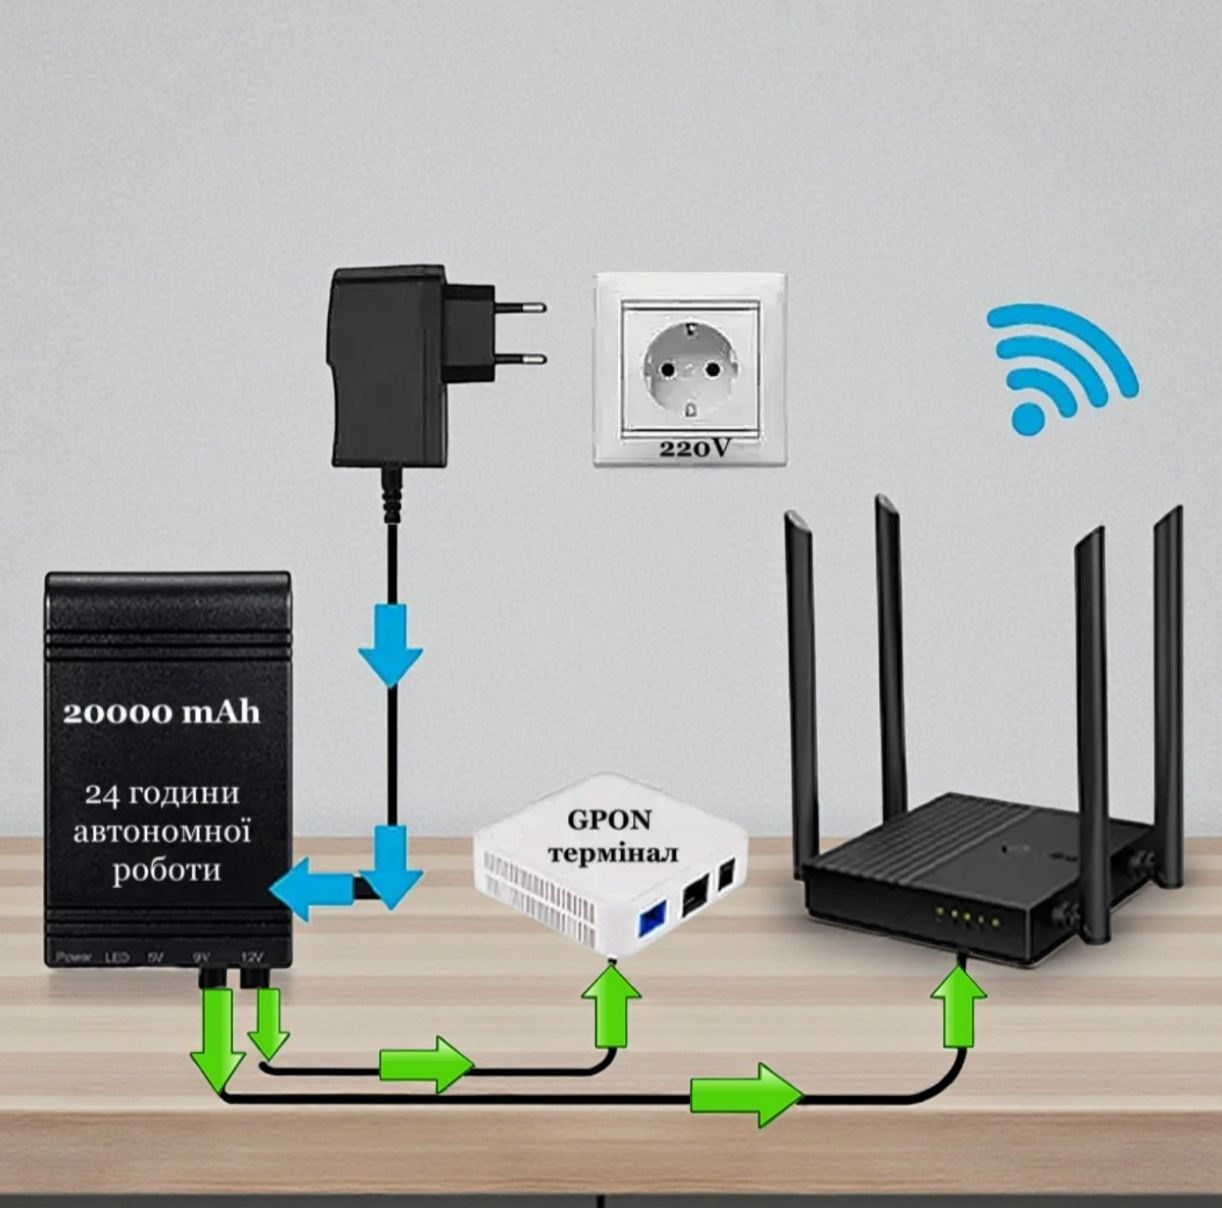
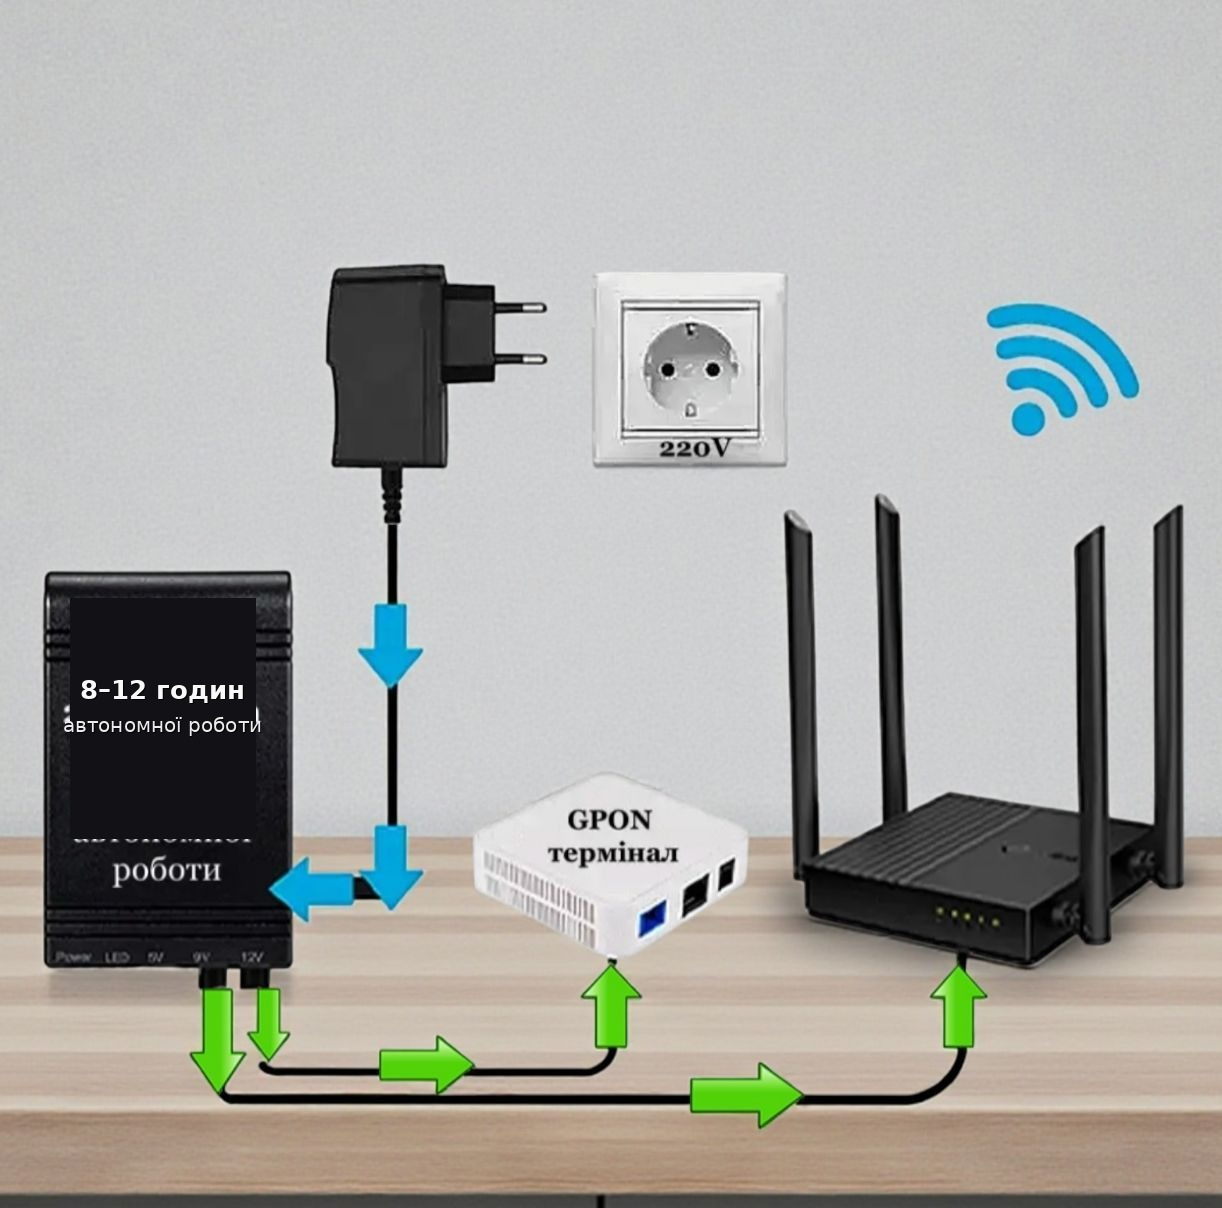
Fix landing: real kit hero, 8–12h scheme, quiz, Pages SEO
- Hero A uses kit-20k photo instead of the infographic
- Scheme text no longer claims 24 hours (8–12)
- Plug-vs-patch quiz above A/B comparison
- robots/sitemap point at GitHub Pages URL
- 404 returns to /powerbank/
- Favicon + Open Graph image

Changed region(s): [[0.0311, 0.4901, 0.2177, 0.6126], [0.0622, 0.6432, 0.2177, 0.7045]]

diff --git a/index.html b/index.html
@@ -3,16 +3,25 @@
 <head>
   <meta charset="UTF-8">
   <meta name="viewport" content="width=device-width, initial-scale=1.0">
-  <title>PowerRouter — збірний 20 000 і DC1018P</title>
+  <title>ІБП для роутера 20 000 mAh і DC1018P — інтернет без світла | PowerRouter</title>
+  <link rel="icon" type="image/svg+xml" href="favicon.svg">
+  <link rel="canonical" href="https://crewdocssolution.github.io/powerbank/">
+  <meta property="og:title" content="PowerRouter — інтернет без світла">
+  <meta property="og:description" content="Два комплекти ІБП для роутера і GPON за 1 690 ₴. 8–12 год або DC1018P з PoE.">
+  <meta property="og:image" content="https://crewdocssolution.github.io/powerbank/kit-20k.jpg">
+  <meta property="og:url" content="https://crewdocssolution.github.io/powerbank/">
+  <meta property="og:type" content="website">
+  <meta name="twitter:card" content="summary_large_image">
   <meta name="description" content="Два комплекти: 20 000 mAh і DC1018P 10 400 mAh з PoE. 1690 ₴.">
   <link href="https://fonts.googleapis.com/css2?family=Inter:wght@400;500;600;700;800&display=swap" rel="stylesheet">
-  <link rel="stylesheet" href="style.css?v=15">
+  <link rel="stylesheet" href="style.css?v=16">
 </head>
 <body class="kit20">
   <header>
     <div class="wrap nav">
       <a class="brand" href="#"><span class="brand-mark">⚡</span>PowerRouter</a>
       <nav class="nav-links">
+        <a href="#quiz"><span data-lang="uk" class="active">Підбір</span><span data-lang="ru">Подбор</span></a>
         <a href="#story"><span data-lang="uk" class="active">Як працює</span><span data-lang="ru">Как работает</span></a>
         <a href="#kits"><span data-lang="uk" class="active">Комплекти</span><span data-lang="ru">Комплекты</span></a>
         <a href="#faq">FAQ</a>
@@ -35,7 +44,7 @@
               <span class="badge badge-gold"><span data-lang="uk" class="active">Для роутера і GPON</span><span data-lang="ru">Для роутера и GPON</span></span>
               <span class="badge badge-red"><span data-lang="uk" class="active">Інтернет без світла</span><span data-lang="ru">Интернет без света</span></span>
             </div>
-            <img id="mainImg" src="scheme-20k.jpg" alt="Схема 20 000">
+            <img id="mainImg" src="kit-20k.jpg" alt="Реальний комплект 20 000 mAh">
           </div>
           <div class="thumbs" id="thumbs"></div>
         </div>
@@ -44,7 +53,7 @@
           <p class="lead"><span data-lang="uk" class="active">Два різні комплекти за 1 690 ₴. Є круглий штекер — підходять обидва. Живлення тільки патч-кордом — лише B.</span><span data-lang="ru">Два разных комплекта за 1 690 ₴. Есть круглый штекер — подходят оба. Питание только патч-кордом — только B.</span></p>
           <div class="switch">
             <button class="on" id="sw20" onclick="selectProduct('kit20')">
-              <img src="scheme-20k.jpg" alt="">
+              <img src="kit-20k.jpg" alt="">
               <div class="sw-txt">Варіант A · 20 000<small><span data-lang="uk" class="active">збірний, 8–12 год</span><span data-lang="ru">сборный, 8–12 ч</span></small></div>
             </button>
             <button id="swDc" onclick="selectProduct('dc')">
@@ -137,6 +146,28 @@
       </div>
     </section>
 
+
+    <section id="quiz">
+      <div class="kicker"><span data-lang="uk" class="active">30 секунд</span><span data-lang="ru">30 секунд</span></div>
+      <h2><span data-lang="uk" class="active">Круглий штекер чи тільки патч?</span><span data-lang="ru">Круглый штекер или только патч?</span></h2>
+      <p class="story-intro"><span data-lang="uk" class="active">Від цього залежить, який комплект брати. Не від ціни — вона одна.</span><span data-lang="ru">От этого зависит, какой комплект брать. Не от цены — она одна.</span></p>
+      <div class="quiz-grid">
+        <button type="button" class="quiz-opt" id="q-plug" onclick="pickPlug('plug')">
+          <b><span data-lang="uk" class="active">Є круглий штекер</span><span data-lang="ru">Есть круглый штекер</span></b>
+          <small><span data-lang="uk" class="active">Блок у розетку, круглий наконечник у роутер</span><span data-lang="ru">Блок в розетку, круглый наконечник в роутер</span></small>
+        </button>
+        <button type="button" class="quiz-opt" id="q-patch" onclick="pickPlug('patch')">
+          <b><span data-lang="uk" class="active">Тільки патч-корд</span><span data-lang="ru">Только патч-корд</span></b>
+          <small><span data-lang="uk" class="active">GPON / оптика без круглого штекера</span><span data-lang="ru">GPON / оптика без круглого штекера</span></small>
+        </button>
+        <button type="button" class="quiz-opt" id="q-unknown" onclick="pickPlug('unknown')">
+          <b><span data-lang="uk" class="active">Не знаю</span><span data-lang="ru">Не знаю</span></b>
+          <small><span data-lang="uk" class="active">Напишете модель у коментарі — підкажемо</span><span data-lang="ru">Напишите модель в комментарии — подскажем</span></small>
+        </button>
+      </div>
+      <p class="quiz-rec" id="quizRec" hidden></p>
+    </section>
+
     <section id="kits">
       <div class="kicker"><span data-lang="uk" class="active">Одна ціна</span><span data-lang="ru">Одна цена</span></div>
       <h2><span data-lang="uk" class="active">Що брати: A чи B</span><span data-lang="ru">Что брать: A или B</span></h2>
@@ -194,7 +225,7 @@
       <h2><span data-lang="uk" class="active">Залишити заявку</span><span data-lang="ru">Оставить заявку</span></h2>
       <div class="order-box" style="margin-top:8px">
         <div>
-          <img id="orderImg" src="scheme-20k.jpg" alt="" style="width:100%;border-radius:14px;margin-bottom:12px;object-fit:cover;height:160px;background:#0c0708">
+          <img id="orderImg" src="kit-20k.jpg" alt="" style="width:100%;border-radius:14px;margin-bottom:12px;object-fit:cover;height:160px;background:#0c0708">
           <b id="orderTitle">Комплект 20 000 mAh</b>
           <div style="margin-top:6px;font-size:22px;font-weight:800">1 690 ₴</div>
         </div>
@@ -247,6 +278,6 @@
   </footer>
   <div class="sticky"><div class="sticky-in"><div><b>1 690 ₴</b></div><a class="btn btn-blue" href="#order"><span data-lang="uk" class="active">Замовити</span><span data-lang="ru">Заказать</span></a></div></div>
   <div class="modal" id="thankyouModal" onclick="if(event.target===this)closeThankYou()"><div class="mbox"><div style="font-size:40px">✅</div><h3><span data-lang="uk" class="active">Дякуємо!</span><span data-lang="ru">Спасибо!</span></h3><button class="btn btn-blue" style="width:100%;margin-top:12px" onclick="closeThankYou()"><span data-lang="uk" class="active">Зрозуміло</span><span data-lang="ru">Понятно</span></button></div></div>
-  <script src="app.js?v=15"></script>
+  <script src="app.js?v=16"></script>
 </body>
 </html>

diff --git a/app.js b/app.js
@@ -1,8 +1,10 @@
 const PHOTOS = {
-  kit20: ["scheme-20k.jpg","kit20-ports.jpg","kit20-mah.jpg","kit20-cable.jpg"],
+  kit20: ["kit-20k.jpg","kit20-1.jpg","kit20-ports.jpg","kit20-mah.jpg","kit20-cable.jpg","scheme-20k.jpg"],
   dc: ["dc-3.jpg","dc-1.jpg","dc-2.jpg","dc-4.jpg"]
 };
 const POS = {
+  "kit-20k.jpg": "center 60%",
+  "kit20-1.jpg": "center center",
   "scheme-20k.jpg": "center center",
   "kit20-ports.jpg": "center 55%",
   "kit20-mah.jpg": "center 65%",
@@ -54,7 +56,34 @@ function selectProduct(id) {
   if (oi) oi.src = PHOTOS[id][0];
   const ot = document.getElementById("orderTitle");
   if (ot) ot.textContent = id === "dc" ? "DC1018P · 10 400 mAh" : "Комплект 20 000 mAh";
-  renderThumbs();
+  
+function pickPlug(kind) {
+  ["plug","patch","unknown"].forEach(k => {
+    const el = document.getElementById("q-"+k);
+    if (el) el.classList.toggle("on", k === kind);
+  });
+  const rec = document.getElementById("quizRec");
+  const uk = document.documentElement.lang !== "ru";
+  if (!rec) return;
+  rec.hidden = false;
+  if (kind === "patch") {
+    selectProduct("dc");
+    rec.textContent = uk
+      ? "Беріть тільки B. У варіанта A немає PoE — патч-корд він не нагодує."
+      : "Берите только B. У варианта A нет PoE — патч-корд он не накормит.";
+  } else if (kind === "plug") {
+    selectProduct("kit20");
+    rec.textContent = uk
+      ? "Вам підходить A. Тримає довше. B теж зійде, якщо хочете один ящик."
+      : "Вам подходит A. Держит дольше. B тоже сойдёт, если хотите один ящик.";
+  } else {
+    rec.textContent = uk
+      ? "Напишіть модель у коментарі. Якщо сумнів — безпечніше B."
+      : "Напишите модель в комментарии. Если сомнение — безопаснее B.";
+  }
+}
+
+renderThumbs();
 }
 function syncFromSelect() {
   selectProduct(document.getElementById("orderProduct").selectedOptions[0].dataset.id);
@@ -88,4 +117,31 @@ function sendOrder(e) {
   .finally(() => { btn.disabled = false; btn.style.opacity = "1"; });
   return false;
 }
+
+function pickPlug(kind) {
+  ["plug","patch","unknown"].forEach(k => {
+    const el = document.getElementById("q-"+k);
+    if (el) el.classList.toggle("on", k === kind);
+  });
+  const rec = document.getElementById("quizRec");
+  const uk = document.documentElement.lang !== "ru";
+  if (!rec) return;
+  rec.hidden = false;
+  if (kind === "patch") {
+    selectProduct("dc");
+    rec.textContent = uk
+      ? "Беріть тільки B. У варіанта A немає PoE — патч-корд він не нагодує."
+      : "Берите только B. У варианта A нет PoE — патч-корд он не накормит.";
+  } else if (kind === "plug") {
+    selectProduct("kit20");
+    rec.textContent = uk
+      ? "Вам підходить A. Тримає довше. B теж зійде, якщо хочете один ящик."
+      : "Вам подходит A. Держит дольше. B тоже сойдёт, если хотите один ящик.";
+  } else {
+    rec.textContent = uk
+      ? "Напишіть модель у коментарі. Якщо сумнів — безпечніше B."
+      : "Напишите модель в комментарии. Если сомнение — безопаснее B.";
+  }
+}
+
 renderThumbs();

diff --git a/404.html b/404.html
@@ -3,80 +3,21 @@
 <head>
   <meta charset="UTF-8">
   <meta name="viewport" content="width=device-width, initial-scale=1.0">
-  <title>Сторінку не знайдено | Power Router</title>
+  <title>Сторінку не знайдено | PowerRouter</title>
   <meta name="robots" content="noindex, nofollow">
-  <link rel="preconnect" href="https://fonts.googleapis.com">
-  <link rel="preconnect" href="https://fonts.gstatic.com" crossorigin>
-  <link href="https://fonts.googleapis.com/css2?family=Inter:wght@400;500;600;700&display=swap" rel="stylesheet">
+  <link rel="icon" type="image/svg+xml" href="/powerbank/favicon.svg">
   <style>
-    :root {
-      --bg: #111215;
-      --text: #F5F5F7;
-      --muted: #86868B;
-      --accent: #C5A880;
-      --accent-hover: #D4BC9A;
-      --border: #2A2A2E;
-    }
-    * { margin: 0; padding: 0; box-sizing: border-box; }
-    body {
-      font-family: 'Inter', -apple-system, BlinkMacSystemFont, sans-serif;
-      background: var(--bg);
-      color: var(--text);
-      min-height: 100vh;
-      display: flex;
-      align-items: center;
-      justify-content: center;
-      text-align: center;
-      padding: 20px;
-      -webkit-font-smoothing: antialiased;
-    }
-    .wrap { max-width: 480px; }
-    .code {
-      font-size: 96px;
-      font-weight: 700;
-      letter-spacing: -0.04em;
-      color: var(--accent);
-      line-height: 1;
-      margin-bottom: 16px;
-    }
-    h1 {
-      font-size: 24px;
-      font-weight: 600;
-      margin-bottom: 12px;
-    }
-    p {
-      color: var(--muted);
-      font-size: 16px;
-      margin-bottom: 32px;
-      line-height: 1.5;
-    }
-    .btn {
-      display: inline-flex;
-      align-items: center;
-      justify-content: center;
-      padding: 14px 28px;
-      font-size: 15px;
-      font-weight: 600;
-      border-radius: 10px;
-      text-decoration: none;
-      background: var(--accent);
-      color: #111215;
-      transition: background 0.2s;
-    }
-    .btn:hover { background: var(--accent-hover); }
+    body { font-family: Inter, system-ui, sans-serif; background:#12080b; color:#f6efe8; min-height:100vh; display:grid; place-items:center; text-align:center; margin:0; padding:20px; }
+    .code { font-size:96px; font-weight:700; color:#d4b06a; line-height:1; }
+    a { display:inline-flex; margin-top:24px; padding:14px 28px; border-radius:12px; background:#8a2438; color:#fff; text-decoration:none; font-weight:700; }
   </style>
 </head>
 <body>
-  <div class="wrap">
+  <div>
     <div class="code">404</div>
-    <h1>
-      <span data-lang="uk">Сторінку не знайдено</span>
-    </h1>
-    <p>
-      Схоже, такої сторінки не існує.<br>
-      Поверніться на головну — там усі комплекти.
-    </p>
-    <a href="/" class="btn">На головну</a>
+    <h1>Сторінку не знайдено</h1>
+    <p>Такої сторінки немає. Усі комплекти — на головній.</p>
+    <a href="/powerbank/">На головну</a>
   </div>
 </body>
 </html>

diff --git a/style.css b/style.css
@@ -178,3 +178,14 @@ footer { padding: 28px 0 96px; color: var(--muted); font-size: 14px; border-top:
   .switch button img { height: 64px; }
 }
 @media (max-width: 480px) { .wrap { padding: 0 14px; } }
+
+.quiz-grid { display: grid; grid-template-columns: 1fr 1fr 1fr; gap: 10px; margin-top: 8px; }
+.quiz-opt {
+  background: var(--card); border: 1px solid var(--border); color: var(--text);
+  border-radius: 16px; padding: 16px; text-align: left; cursor: pointer; min-height: 108px;
+}
+.quiz-opt b { display: block; margin-bottom: 6px; }
+.quiz-opt small { color: var(--muted); font-size: 13px; font-weight: 500; }
+.quiz-opt.on { border-color: var(--gold); }
+.quiz-rec { margin-top: 12px; background: var(--card2); border-radius: 14px; padding: 14px 16px; color: var(--text); }
+@media (max-width: 900px) { .quiz-grid { grid-template-columns: 1fr; } }
